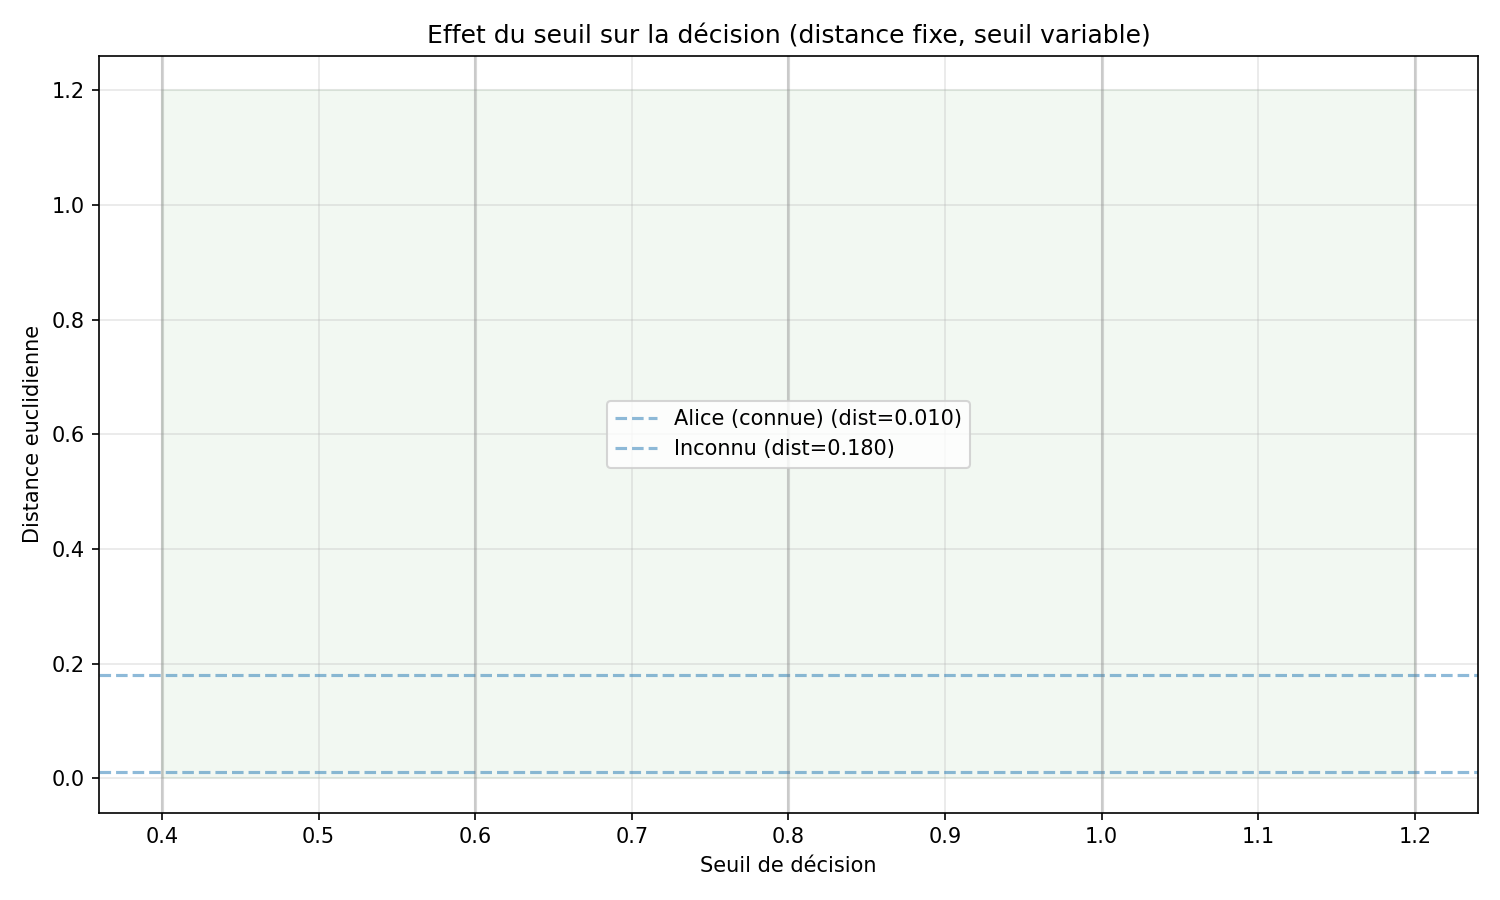
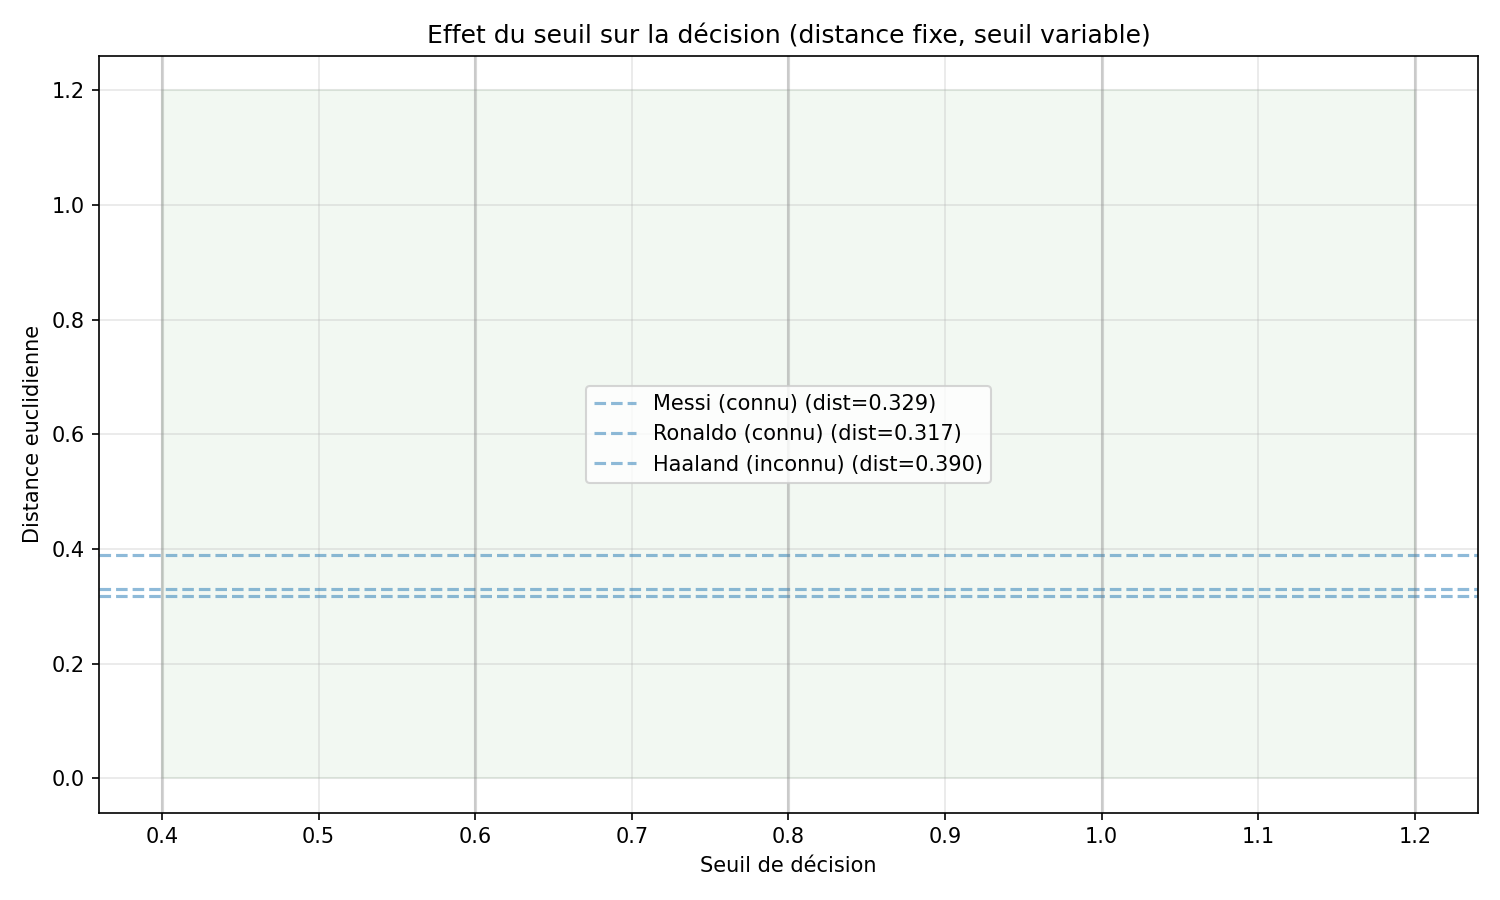
TP04+TP05: Update with real face photos (Messi, Ronaldo, Neymar, Haaland)

Changed region(s): [[0.0613, 0.6533, 0.9813, 0.6844], [0.3987, 0.4356, 0.6747, 0.5289]]

diff --git a/TP04/tp04_pca_eigenfaces.py b/TP04/tp04_pca_eigenfaces.py
@@ -399,8 +399,9 @@ if __name__ == "__main__":
     print("-" * 40)
 
     test_images = [
-        ("Alice (connue)", os.path.join(TEST_DIR, "test_alice.jpg")),
-        ("Inconnu", os.path.join(TEST_DIR, "test_unknown.jpg")),
+        ("Messi (connu)", os.path.join(TEST_DIR, "test_messi.jpg")),
+        ("Ronaldo (connu)", os.path.join(TEST_DIR, "test_ronaldo.jpg")),
+        ("Haaland (inconnu)", os.path.join(TEST_DIR, "test_unknown.jpg")),
     ]
 
     threshold = 3000

diff --git a/TP05/tp05_deep_learning.py b/TP05/tp05_deep_learning.py
@@ -521,8 +521,9 @@ def main():
     print("-" * 45)
 
     test_images = [
-        ("Alice (connue)", os.path.join(TEST_DIR, "test_alice.jpg")),
-        ("Inconnu", os.path.join(TEST_DIR, "test_unknown.jpg")),
+        ("Messi (connu)", os.path.join(TEST_DIR, "test_messi.jpg")),
+        ("Ronaldo (connu)", os.path.join(TEST_DIR, "test_ronaldo.jpg")),
+        ("Haaland (inconnu)", os.path.join(TEST_DIR, "test_unknown.jpg")),
     ]
 
     for name, path in test_images:
